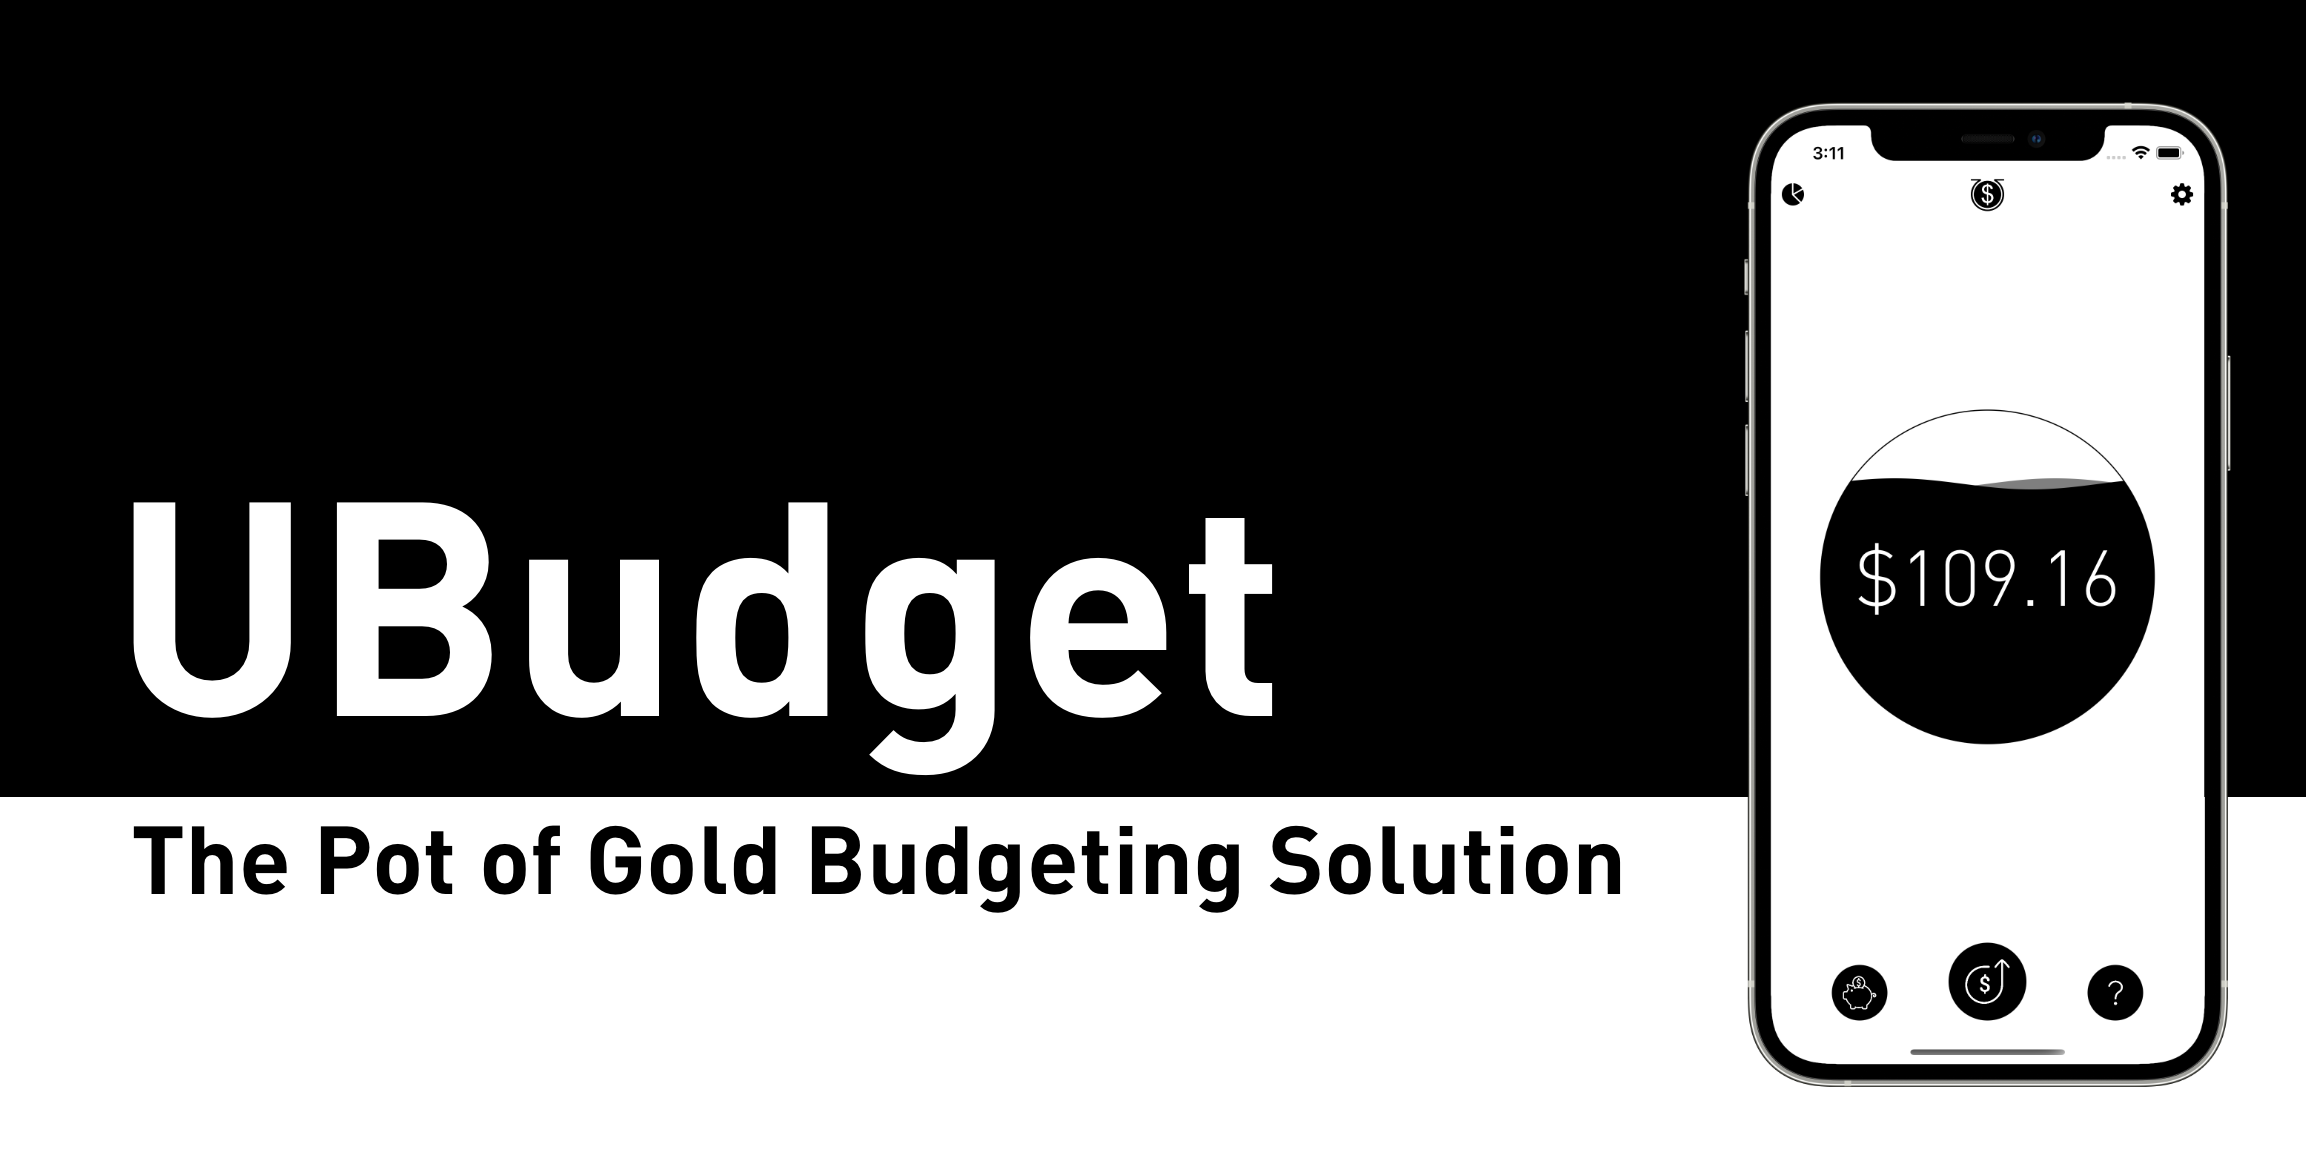
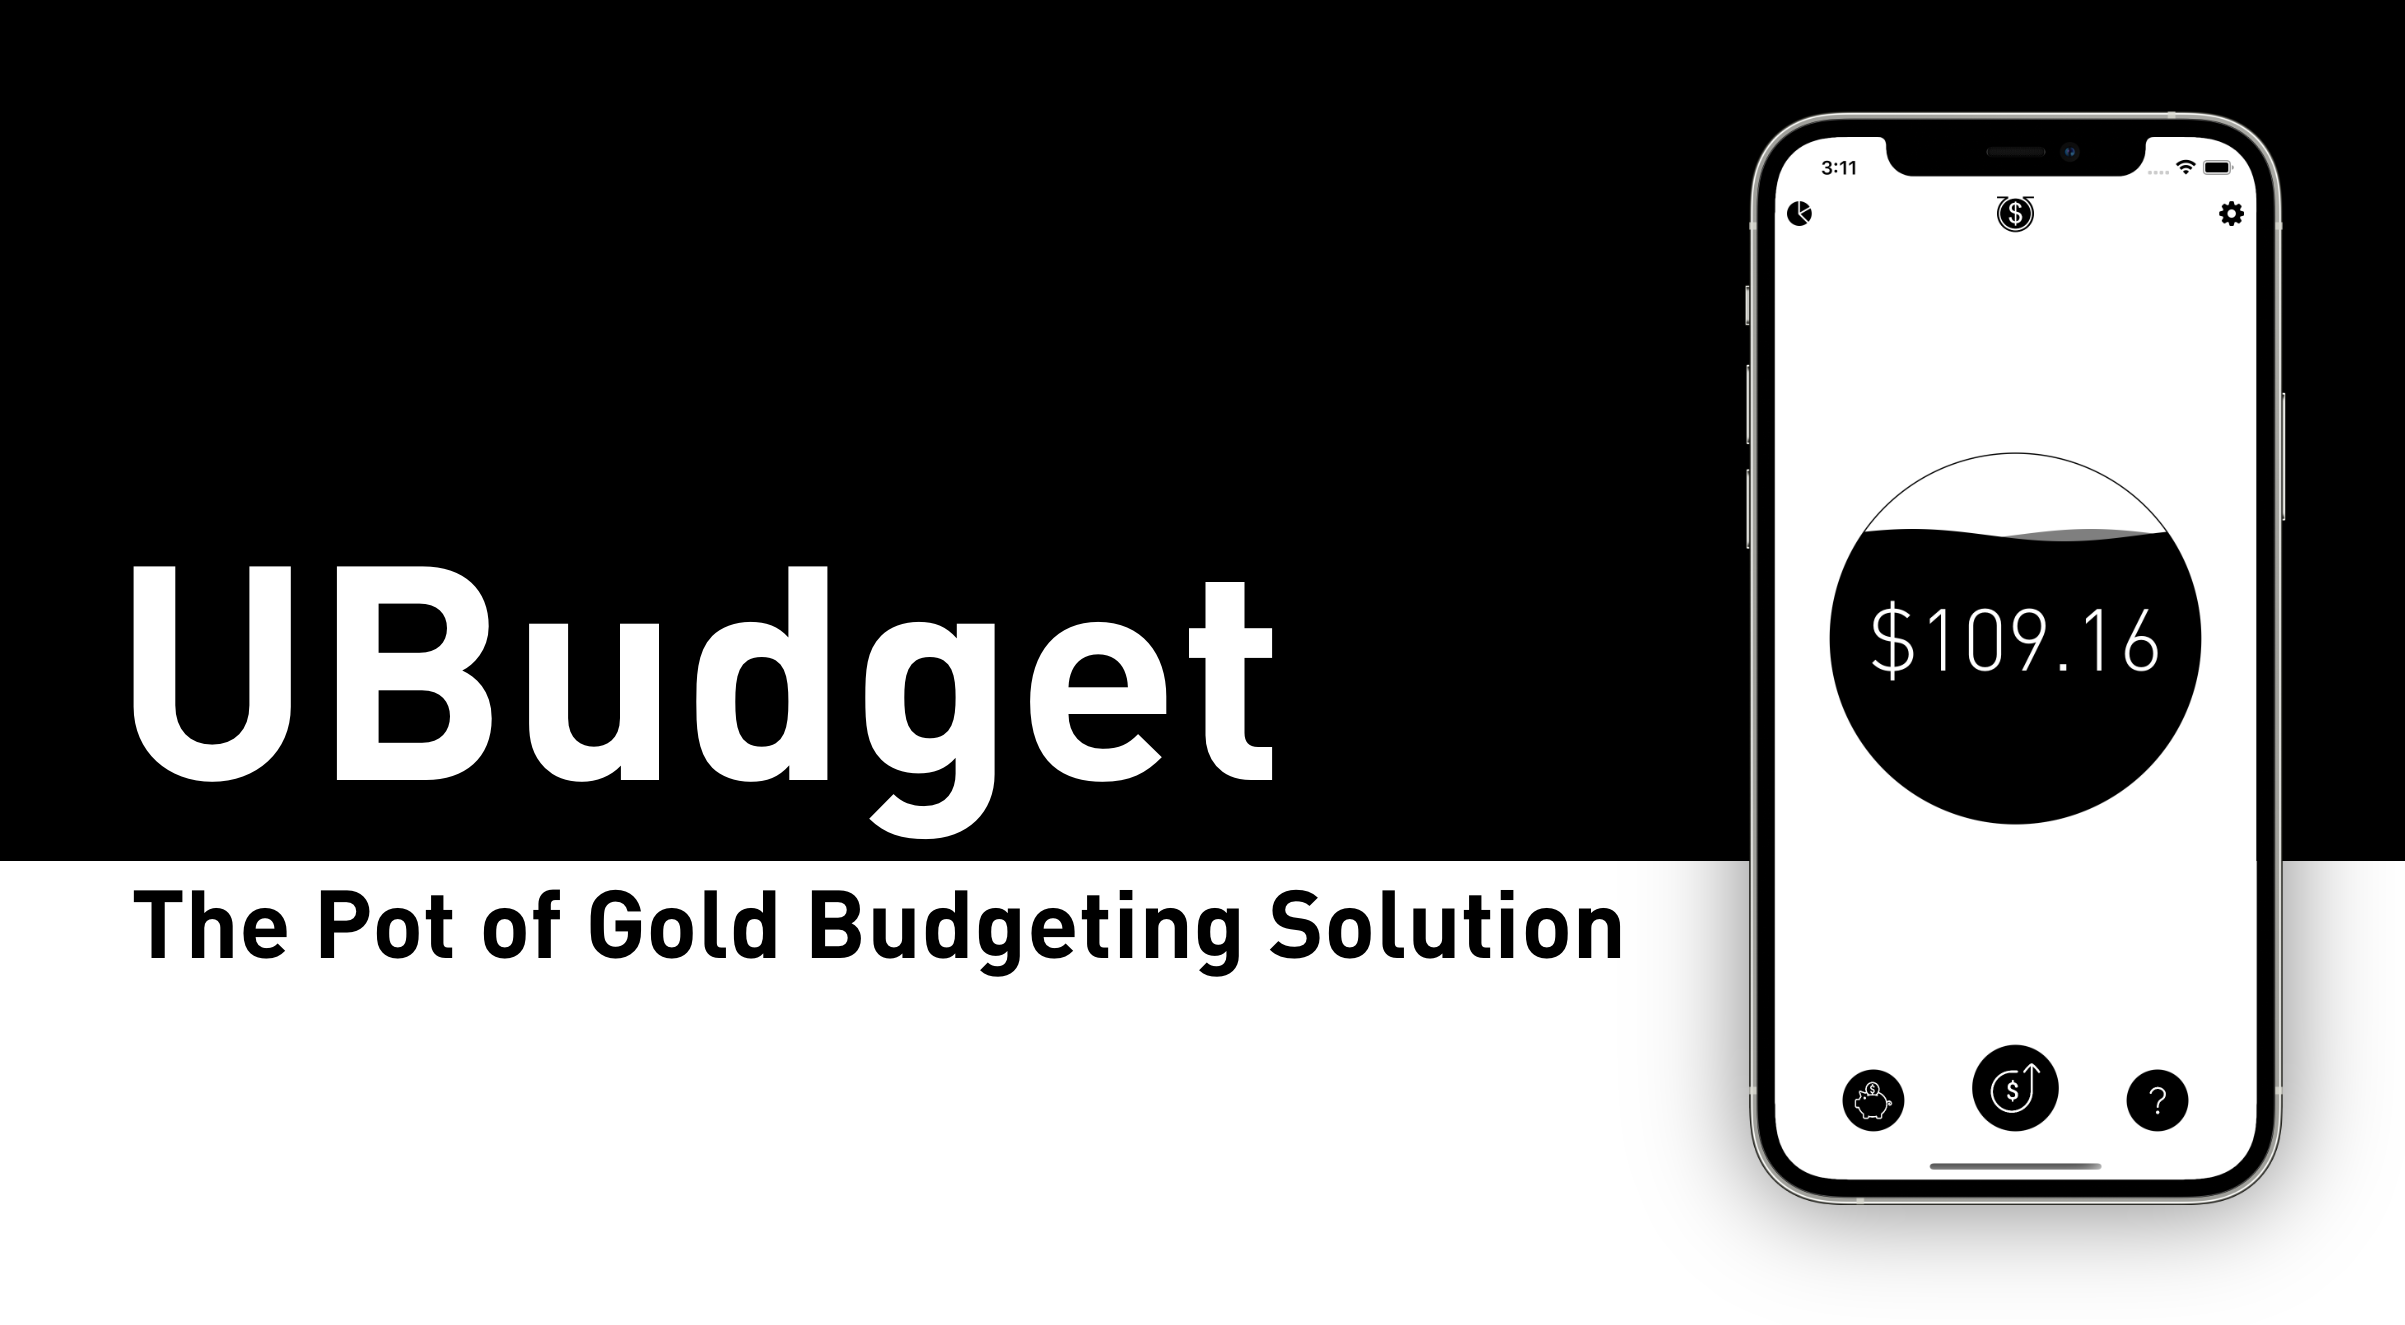
Screencaps

Changed region(s): [[0.0, 0.0617, 1.0, 0.9571], [0.8118, 0.3396, 0.8742, 0.3705]]

diff --git a/README.md b/README.md
@@ -1,5 +1,5 @@
 <p align="center">
-  <img src="Screenshots/GithubHeader2.png?raw=true" alt="UBudget" width=700/>
+  <img src="Screenshots/GithubHeader.png?raw=true" alt="UBudget" width=700/>
 </p>
 
 #  UBudget
